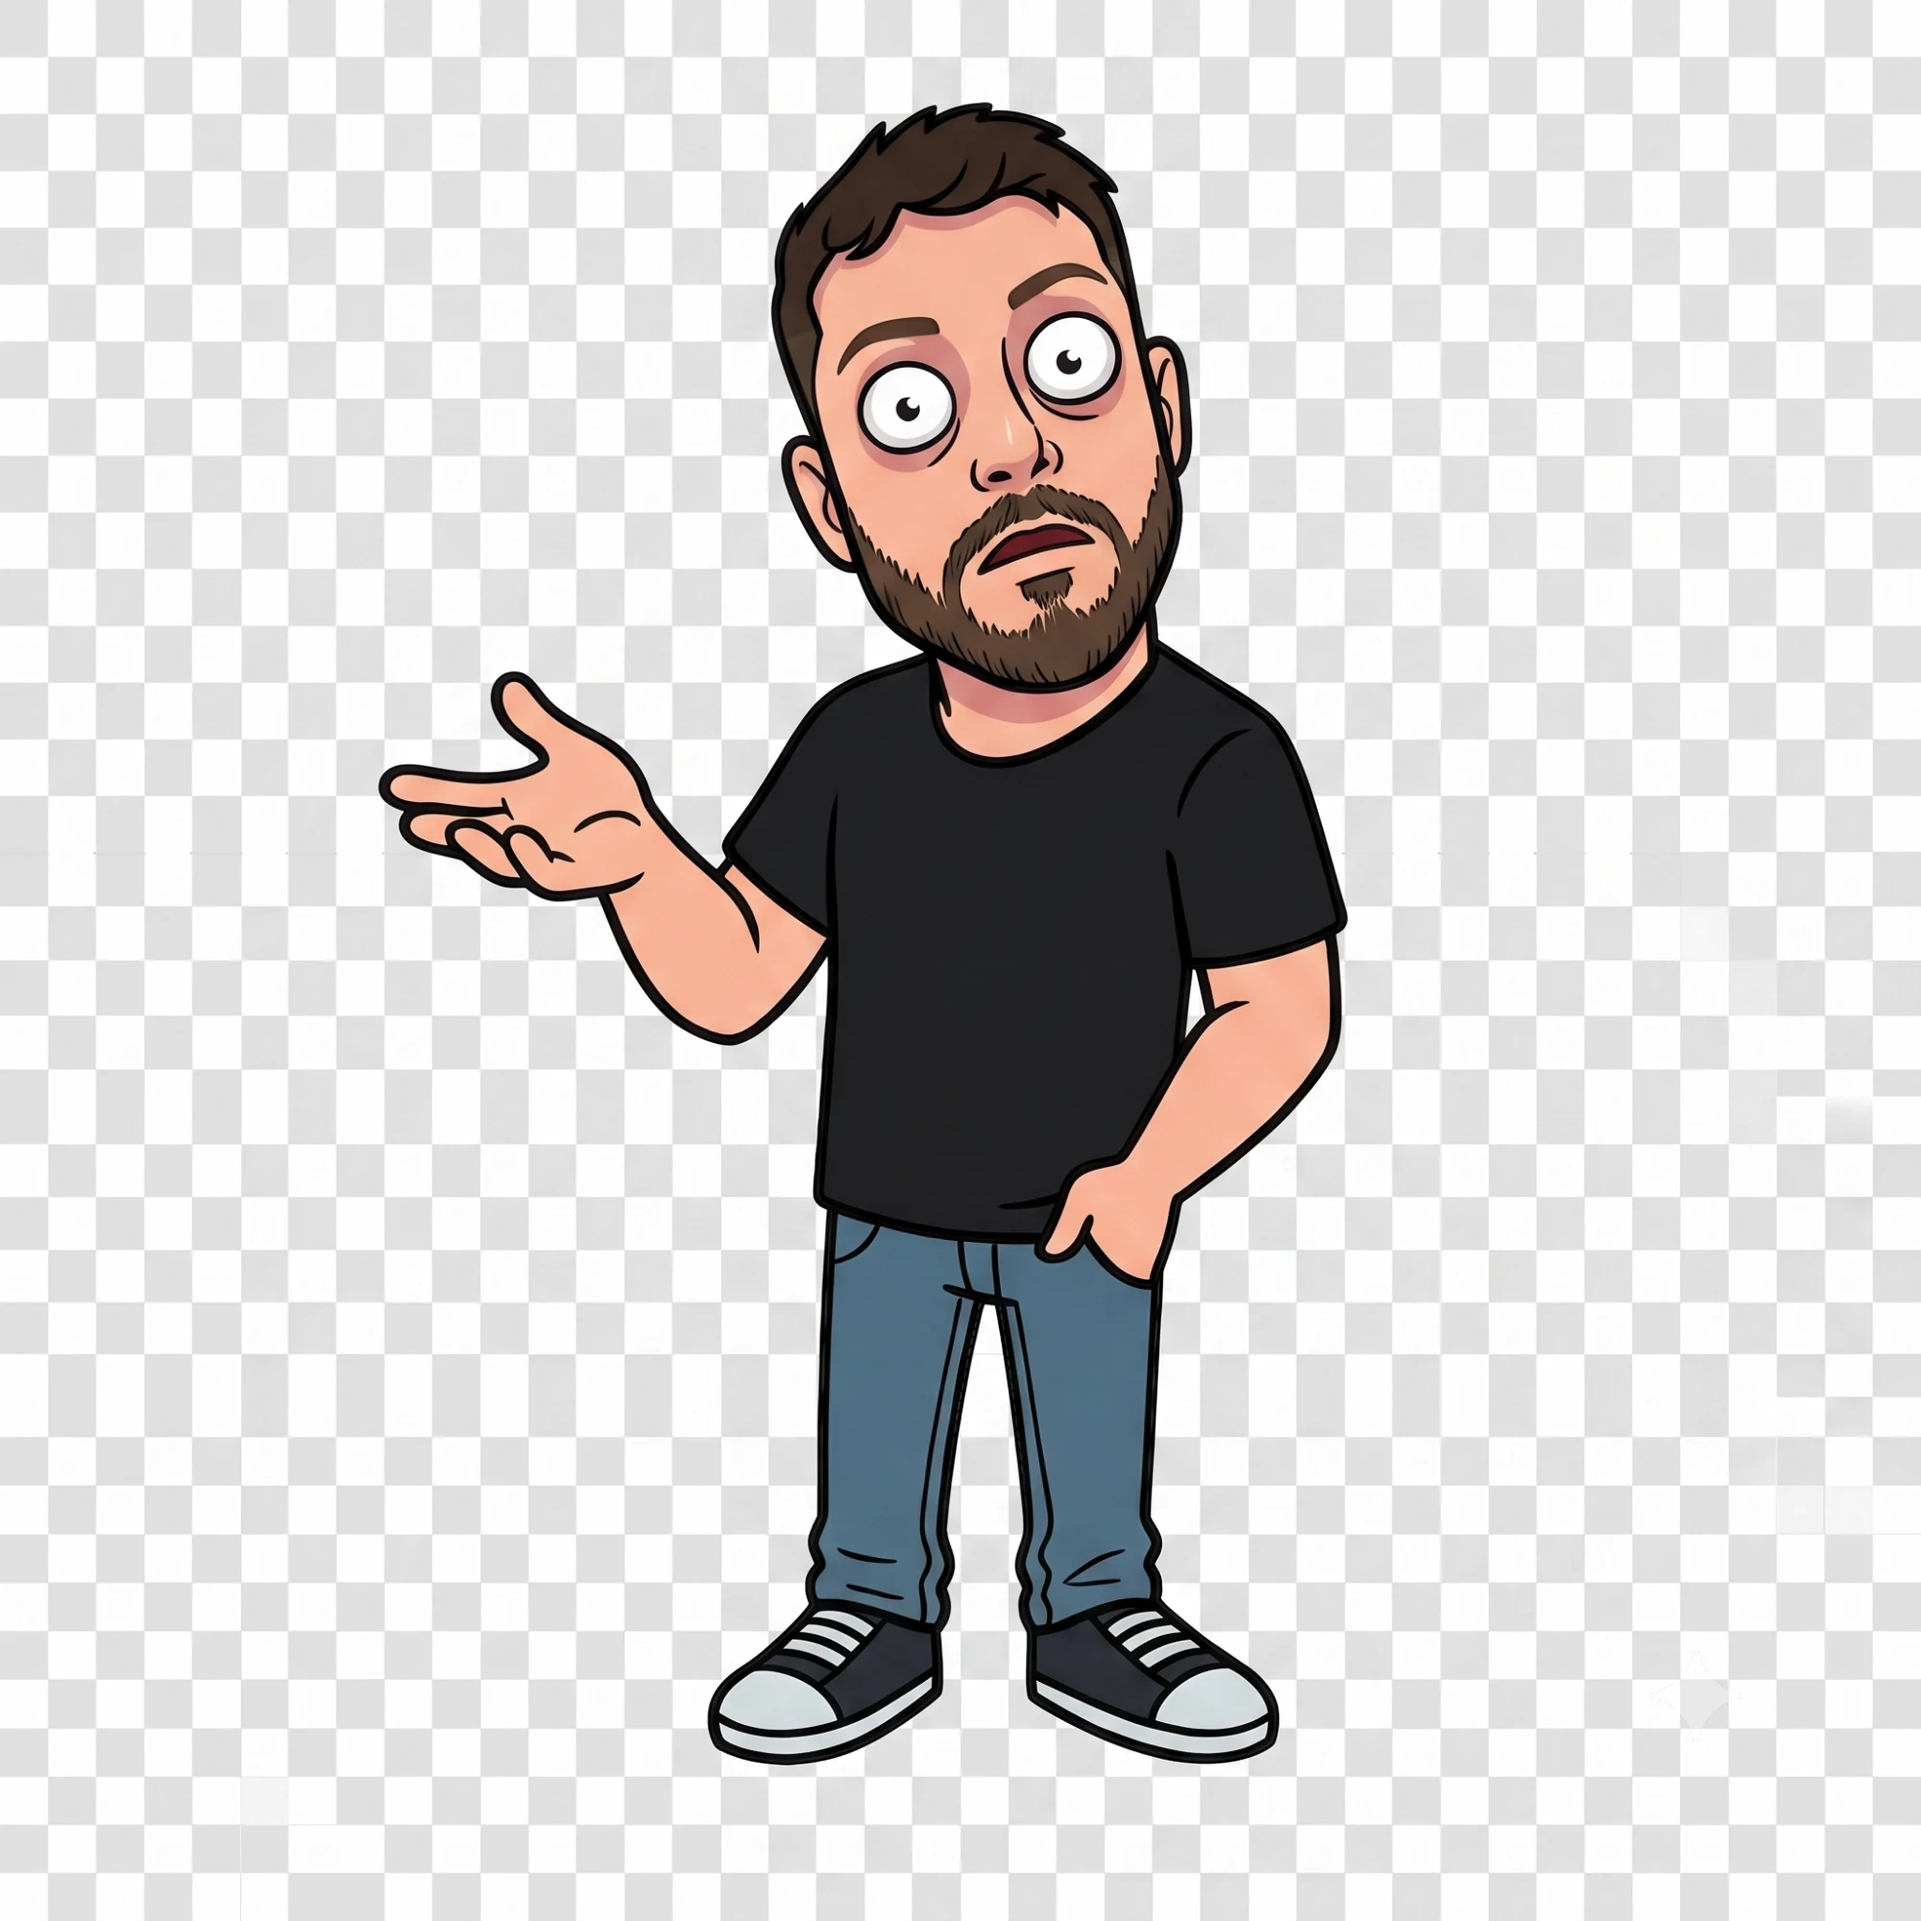
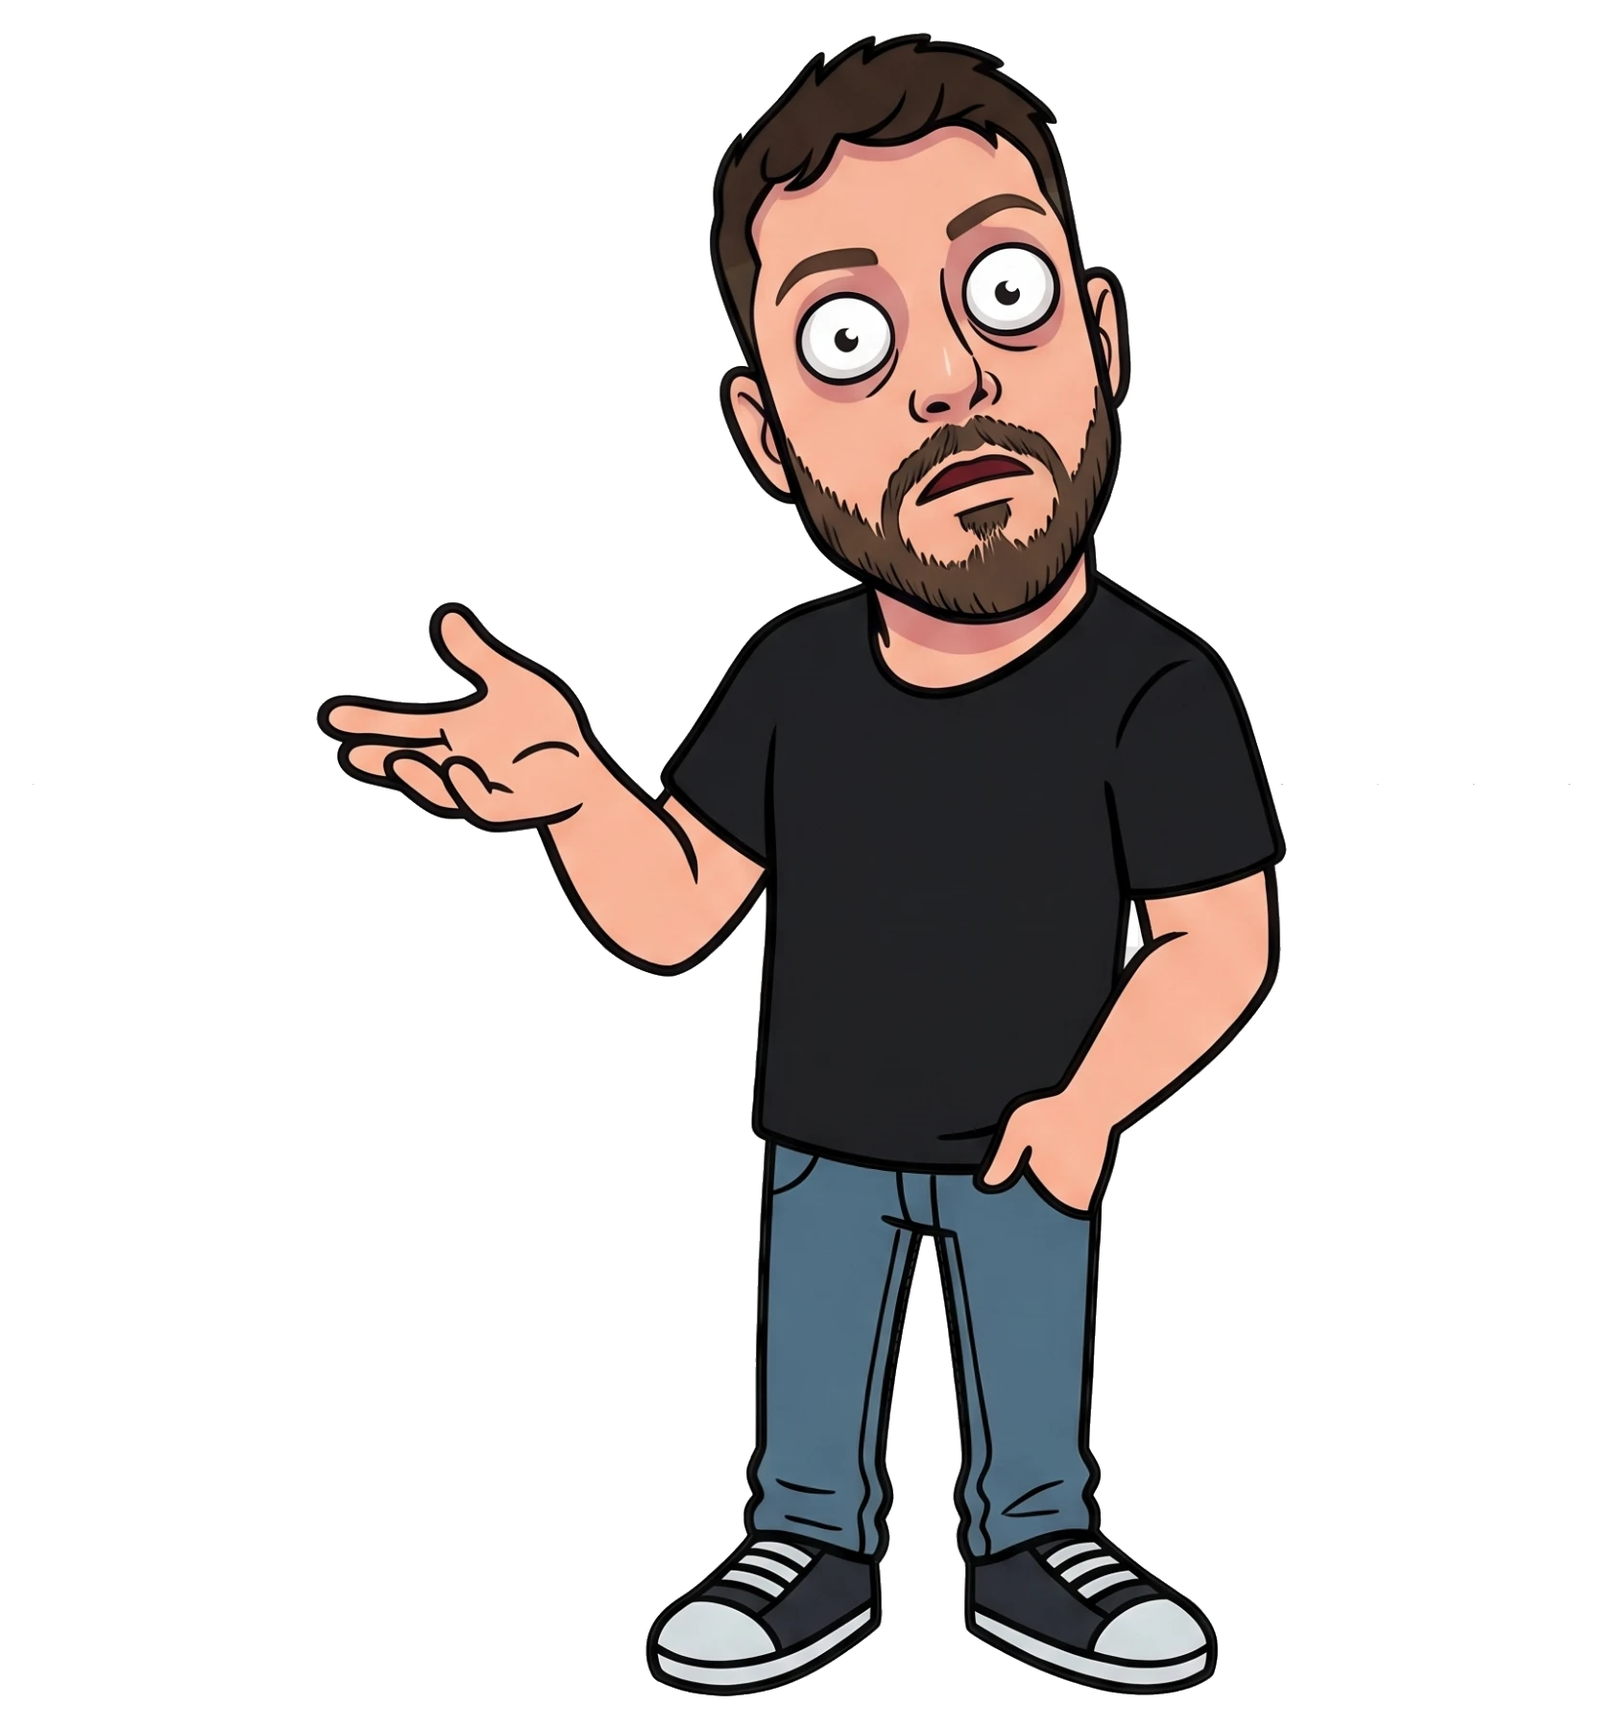
Corrige transparência dos personagens e integra Casimiro na cena densa
As artes dos personagens não tinham transparência real — o "fundo
transparente" era um padrão xadrez cinza/claro pintado nos próprios
pixels (sem canal alpha), provavelmente por causa de como as imagens
foram achatadas ao trafegar pelo chat. Detecta as cores do xadrez por
imagem, remove via análise de componentes conectados a partir das
bordas (preservando áreas claras internas como olhos/dentes, que não
tocam a borda) e recorta a margem transparente sobrando.

Troca o cenário de estúdio pela versão bem mais densa e detalhada
(estilo "Onde está Wally": multidão em 3 níveis, dezenas de itens/
cabos/monitores) e posiciona o Casimiro camuflado perto da escada do
mezanino, entre outras figuras de roupa escura.

Também tira o "pin" do personagem na cena: antes ele aparecia num
círculo com borda branca por cima do fundo, o que sempre entregava a
posição não importa o tamanho. Agora ele renderiza como um sprite sem
recorte/borda, na proporção real da arte (altura derivada do raio,
largura calculada a partir da proporção natural da imagem carregada).
Corrigido junto um bug de empilhamento CSS introduzido nessa mudança
(fallback e imagem precisam de position:absolute pra se sobrepor
corretamente em vez de empilhar no fluxo normal).

Claude-Session: https://claude.ai/code/session_016sErPn9fZ9xUMGGnX4vyy5

diff --git a/js/main.js b/js/main.js
@@ -122,15 +122,27 @@
       el.dataset.characterId = target.characterId;
       el.style.left = `${(target.x / scene.width) * 100}%`;
       el.style.top = `${(target.y / scene.height) * 100}%`;
-      el.style.width = `${((target.radius * 2) / scene.width) * 100}%`;
       el.style.setProperty("--target-color", target.color);
       el.setAttribute("aria-label", target.name);
 
+      // Tamanho em % é derivado do raio (espaço de design) + proporção real
+      // da imagem, pra manter a arte com a proporção correta em vez de
+      // esticar/cortar num quadrado. Assume proporção 1:1 até a imagem
+      // carregar e revelar as dimensões reais.
+      const setSize = (ratio) => {
+        const heightPct = ((target.radius * 2) / scene.height) * 100;
+        const widthPct = (((target.radius * 2) * ratio) / scene.width) * 100;
+        el.style.height = `${heightPct}%`;
+        el.style.width = `${widthPct}%`;
+      };
+      setSize(1);
+
       const img = document.createElement("img");
       img.className = "target-img";
-      img.src = target.thumb;
       img.alt = "";
+      img.onload = () => setSize(img.naturalWidth / img.naturalHeight);
       img.onerror = () => img.classList.add("hidden");
+      img.src = target.thumb;
 
       const fallback = document.createElement("div");
       fallback.className = "target-fallback";

diff --git a/css/styles.css b/css/styles.css
@@ -308,26 +308,24 @@ html, body {
 .target {
   position: absolute;
   transform: translate(-50%, -50%);
-  aspect-ratio: 1 / 1;
-  border-radius: 50%;
-  border: 3px solid rgba(255, 255, 255, 0.35);
   padding: 0;
+  border: none;
+  background: none;
   cursor: pointer;
-  overflow: hidden;
   transition: transform 0.1s ease, opacity 0.2s ease;
 }
 
 .target:hover {
-  transform: translate(-50%, -50%) scale(1.05);
+  transform: translate(-50%, -50%) scale(1.08);
 }
 
 .target-img {
   position: absolute;
   inset: 0;
+  display: block;
   width: 100%;
   height: 100%;
-  object-fit: cover;
-  object-position: 50% 15%;
+  object-fit: fill;
   pointer-events: none;
 }
 
@@ -338,6 +336,7 @@ html, body {
 .target-fallback {
   position: absolute;
   inset: 0;
+  border-radius: 50%;
   background: var(--target-color, #999);
   display: flex;
   align-items: center;

diff --git a/js/scenes.js b/js/scenes.js
@@ -23,9 +23,9 @@ const SCENES = [
     name: "Estúdio bagunçado",
     background: "assets/scenes/cenario-estudio.png",
     width: 2000,
-    height: 1116,
+    height: 848,
     targets: [
-      { characterId: "casimiro", name: "Casimiro", thumb: "assets/chars/casimiro.png", color: "#ff6b35", x: 280, y: 379, radius: 53 }
+      { characterId: "casimiro", name: "Casimiro", thumb: "assets/chars/casimiro.png", color: "#2b2b3d", x: 385, y: 140, radius: 28 }
     ]
   },
   {
